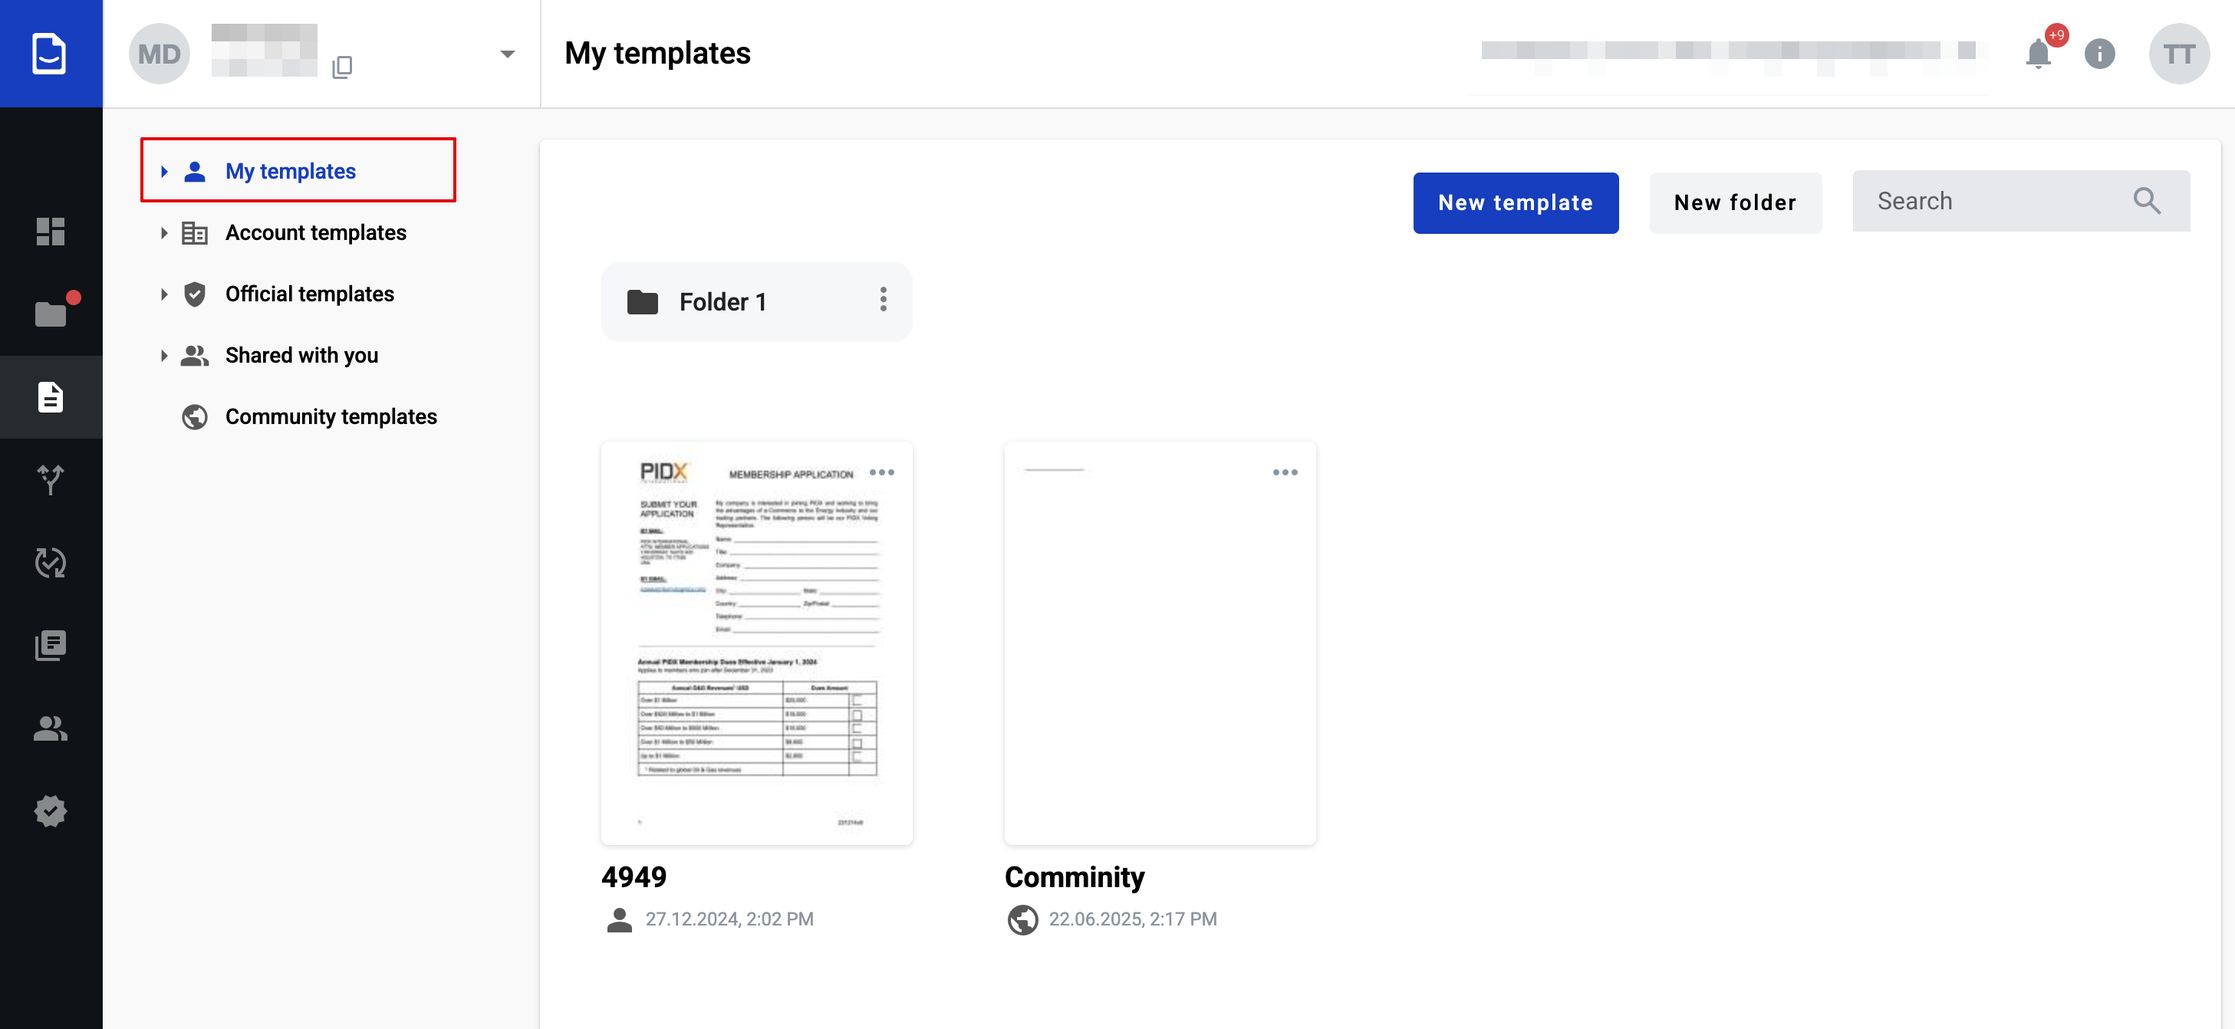
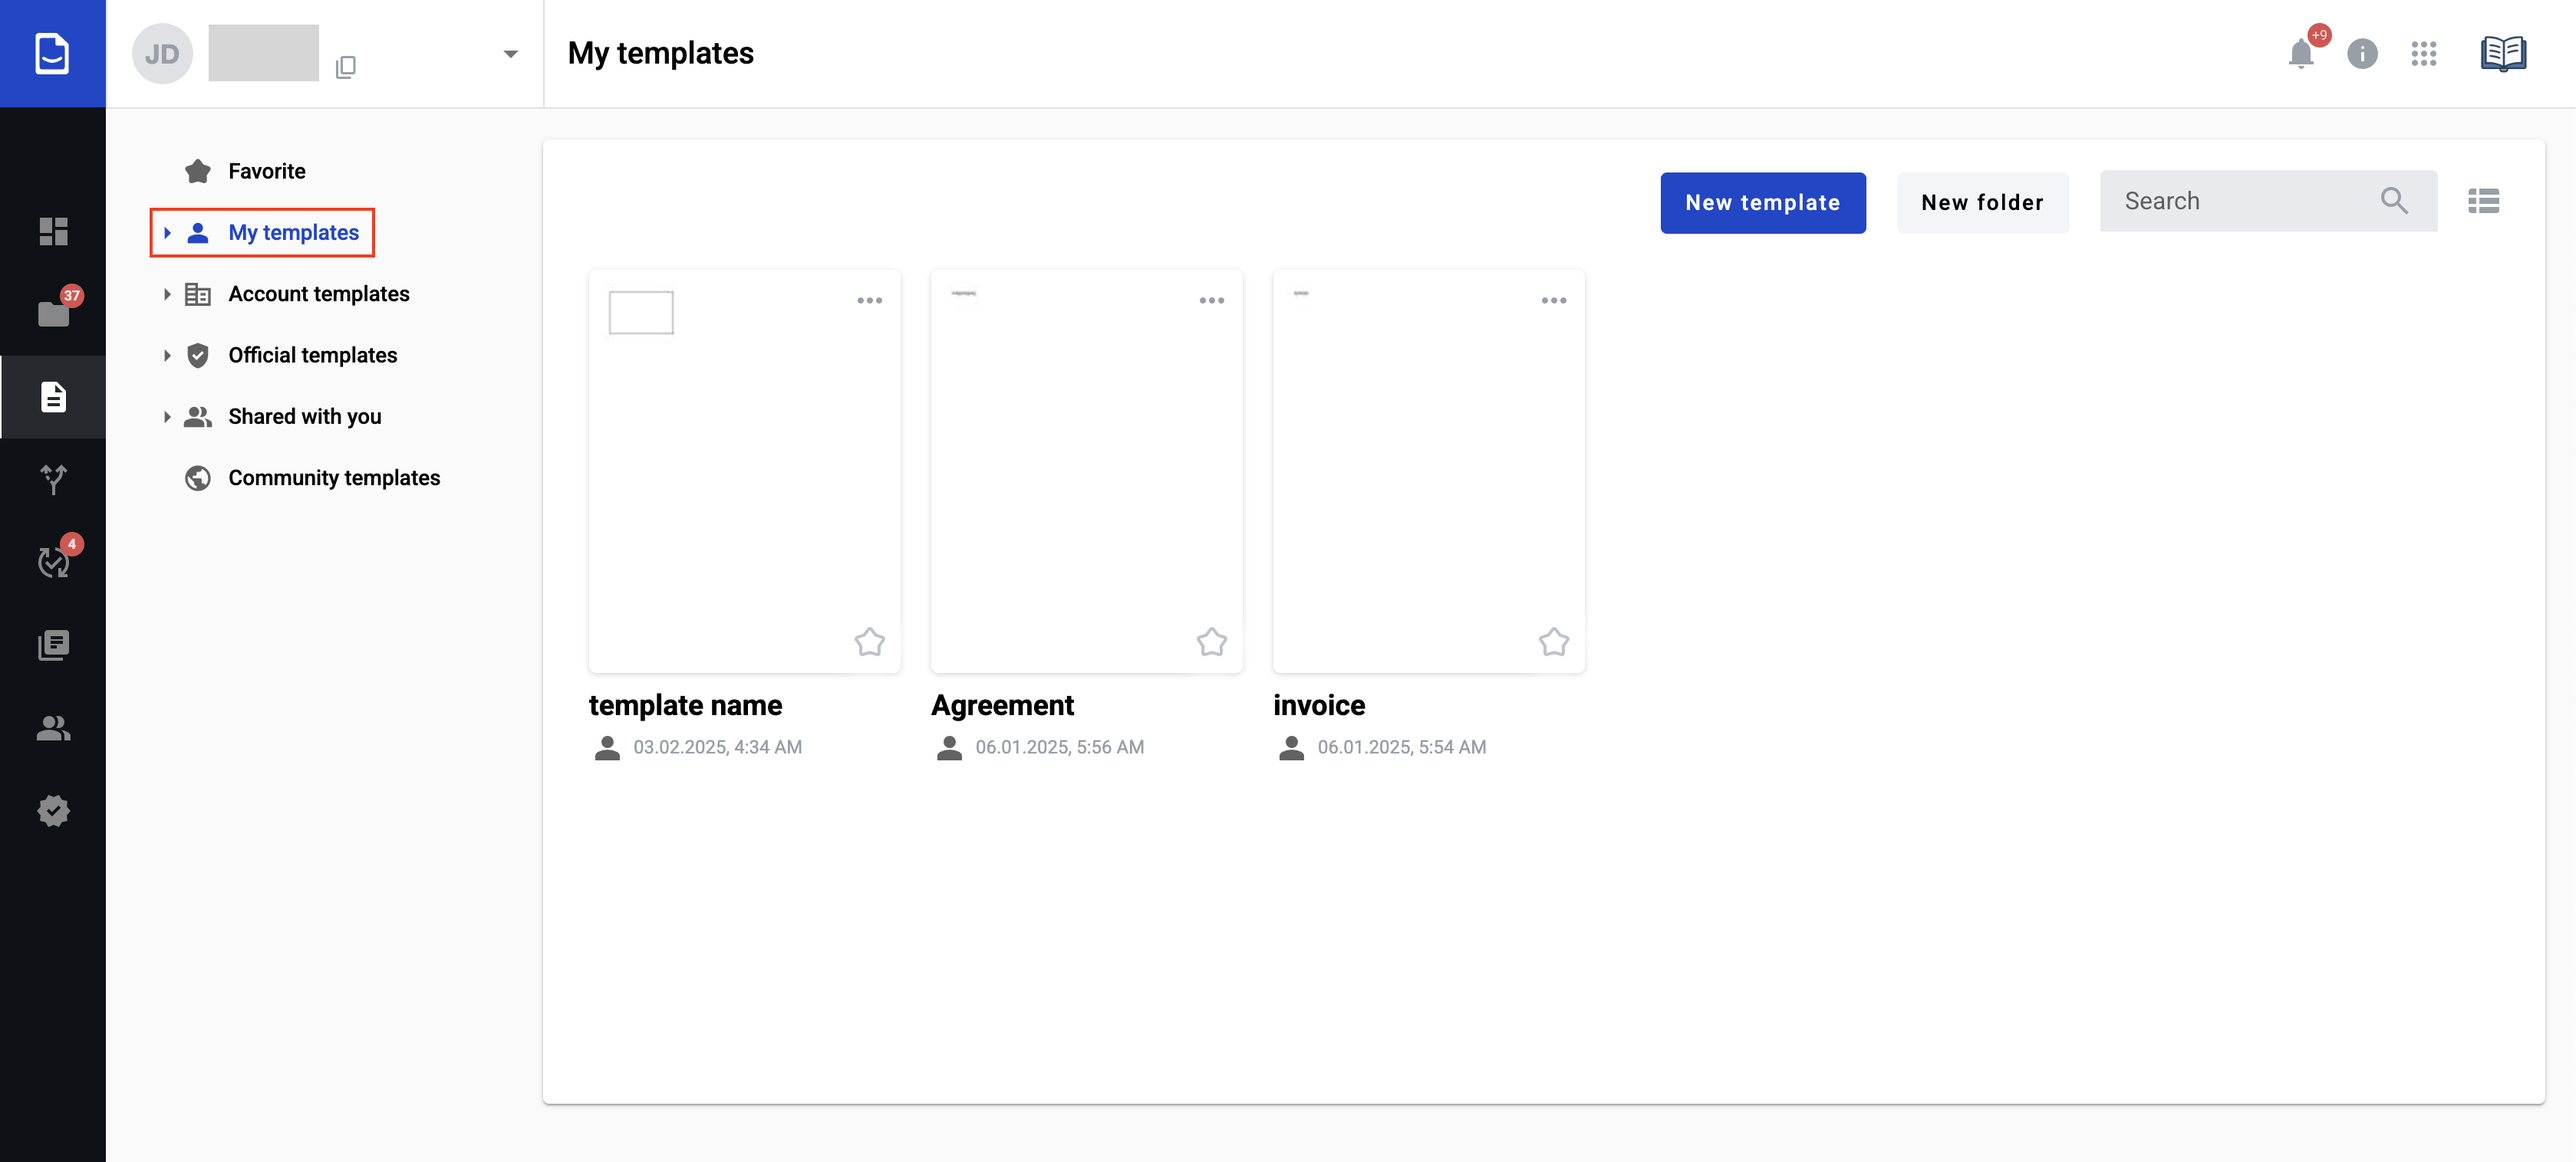
Grid/List view documentation (#367)

diff --git a/docs/source/pages/howToWorkWithPlatform/mainApplication/templateList/templateListPage/templateListPage.rst b/docs/source/pages/howToWorkWithPlatform/mainApplication/templateList/templateListPage/templateListPage.rst
@@ -43,7 +43,7 @@ There are two types of template preview available:
    :width: 300
    :align: center
 
-2. First page of the document. A template that contains at least one structured document or a PDF file will display a preview. The system uses the first page of the first structured document or the attached PDF in the template as the preview.
+2. First page of the document. A template that contains at least one structured document or a PDF file will display a preview. The system uses the first page of the first structured document or the attached PDF in the template as the preview
 
 .. image:: pic_templateListPage/previewStructuredDocument.png
    :width: 300
@@ -83,3 +83,80 @@ How to find a template
    :align: center
 
 On template list you can create templates, clone, update and delete existing templates.
+
+Templates view options
+======================
+
+The Templates page supports two view options: Grid and List.
+
+* Grid view is the default on desktop and tablet devices.
+* List view is the default on mobile devices.
+
+To switch between views, click the Grid/List toggle button.
+Once you change the view mode, your preference overrides the default setting and applies across all devices.
+
+* To switch to list view click the icon "List view"
+
+.. image:: pic_templateListPage/toListView.png
+   :width: 400
+   :align: center
+
+* To switch to grid view click the icon "Grid view"
+
+.. image:: pic_templateListPage/toGridView.png
+   :width: 400
+   :align: center
+
+.. note:: Icon changes automatically depends on current view.
+
+Both views provide identical functionality and allow users to manage folders and templates, provided they have the necessary permissions.
+
+Main elements of the Grid view
+``````````````````````````````
+
+.. image:: pic_templateListPage/gridViewElements.png
+   :width: 400
+   :align: center
+
+1. **Folders block** - Represents a folder item in the Templates page. Folders are displayed first in the list. Clicking a folder tile opens the selected folder
+
+  * **Folder icon** - Indicates that the item is a folder (1.1)
+  * **Folder name** - The name of the folder (1.2)
+  * **Folder properties** - Provides actions available for the folder: Move, Rename, and Delete (1.3)
+
+2. **Template block** - Represents an individual template item. Clicking a template preview opens the Envelope Creation page
+
+  * **Template properties** - Contains available actions: Edit, Copy UUID, Add/Remove from Favorites, Clone, Move, Rename, Delete, and Get Link (if configured) (2.1)
+  * **Template preview** - Clicking opens the Envelope Creation page (2.2)
+  * **Add to favorites icon** - Toggles whether the template is added to or removed from Favorites (2.3)
+  * **Template name** - Displays the name of the template (2.4)
+  * **Template creation date** - Shows the date when the template was created (2.5)
+  * **Template access level icon** - Indicates the access level of the template (2.6)
+
+
+Main elements of the List view
+``````````````````````````````
+
+.. image:: pic_templateListPage/listViewElements.png
+   :width: 400
+   :align: center
+
+1. **Folders block** - Represents a folder item in the Templates list. Folders are displayed first. Clicking a folder row opens the selected folder
+
+  * **Folder icon** - Indicates that the item is a folder (1.1)
+  * **Folder name** - The name of the folder (1.2)
+  * **Folder description** - Shows the folder’s description, if provided (1.3)
+  * **Folder creation date** - Shows the date when the folder was created (1.4)
+  * **Folder access level** - Indicates the access level of the folder (1.5)
+  * **Folder properties** - Provides actions available for the folder: Move, Rename, and Delete (1.6)
+
+2. **Template block** - Represents a template item in the Templates list. Clicking a template row opens the Envelope Creation page
+
+  * **Template icon** - Indicates that the item is a template (2.1)
+  * **Template name** - Displays the name of the template (2.2)
+  * **Template description** - Shows the template’s description, if provided (2.3)
+  * **Template creation date** - Shows the date when the template was created (2.4)
+  * **Template access level icon** - Indicates the access level of the template (2.5)
+  * **Template edit icon** - Opens the Template Edit form (2.6)
+  * **Add to favorites icon** - Adds or removes the template from Favorites (2.7)
+  * **Template properties** Contains available actions: Edit, Copy UUID, Add/Remove from Favorites, Clone, Move, Rename, Delete, and Get Link (if configured) (2.8)
